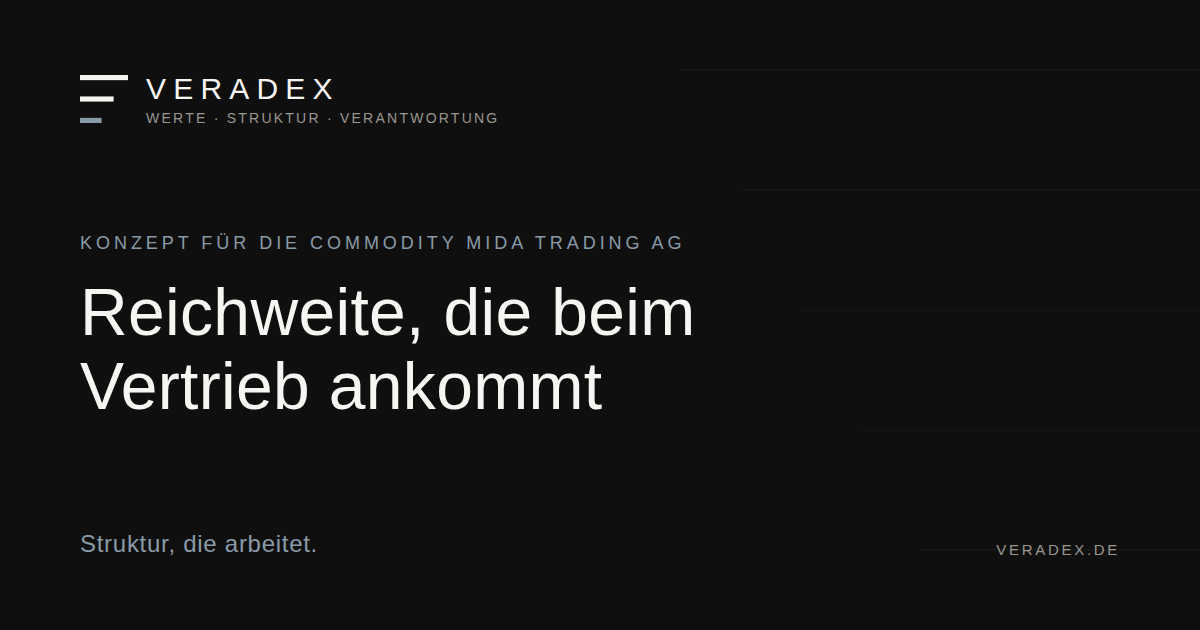
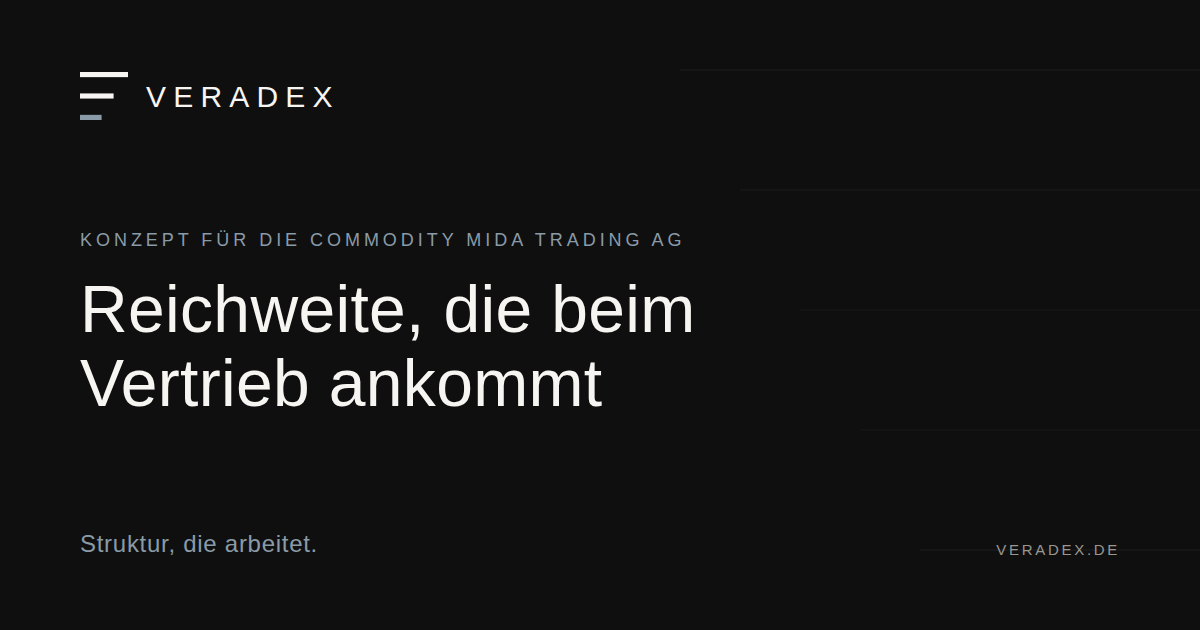
Add files via upload

diff --git a/Ergaenzung_MIDA_HV_Staerkung_VERADEX.html b/Ergaenzung_MIDA_HV_Staerkung_VERADEX.html
@@ -3,6 +3,7 @@
 <head>
 <meta charset="UTF-8">
 <meta name="viewport" content="width=device-width, initial-scale=1.0">
+<meta name="robots" content="noindex, nofollow">
 <title>Ergänzung · HV-Stärkung · VERADEX</title>
 <style>
   :root{

diff --git a/Konzept_MIDA_Reichweite_VERADEX.html b/Konzept_MIDA_Reichweite_VERADEX.html
@@ -3,6 +3,7 @@
 <head>
 <meta charset="UTF-8">
 <meta name="viewport" content="width=device-width, initial-scale=1.0">
+<meta name="robots" content="noindex, nofollow">
 <title>Konzept · Reichweite für MIDA · VERADEX</title>
 <style>
   :root{

diff --git a/index.html b/index.html
@@ -3,6 +3,7 @@
 <head>
 <meta charset="UTF-8">
 <meta name="viewport" content="width=device-width, initial-scale=1.0">
+<meta name="robots" content="noindex, nofollow">
 <title>VERADEX · Konzept Reichweite für MIDA</title>
 
 <!-- ===== Link-Vorschau (Open Graph / Twitter) =====